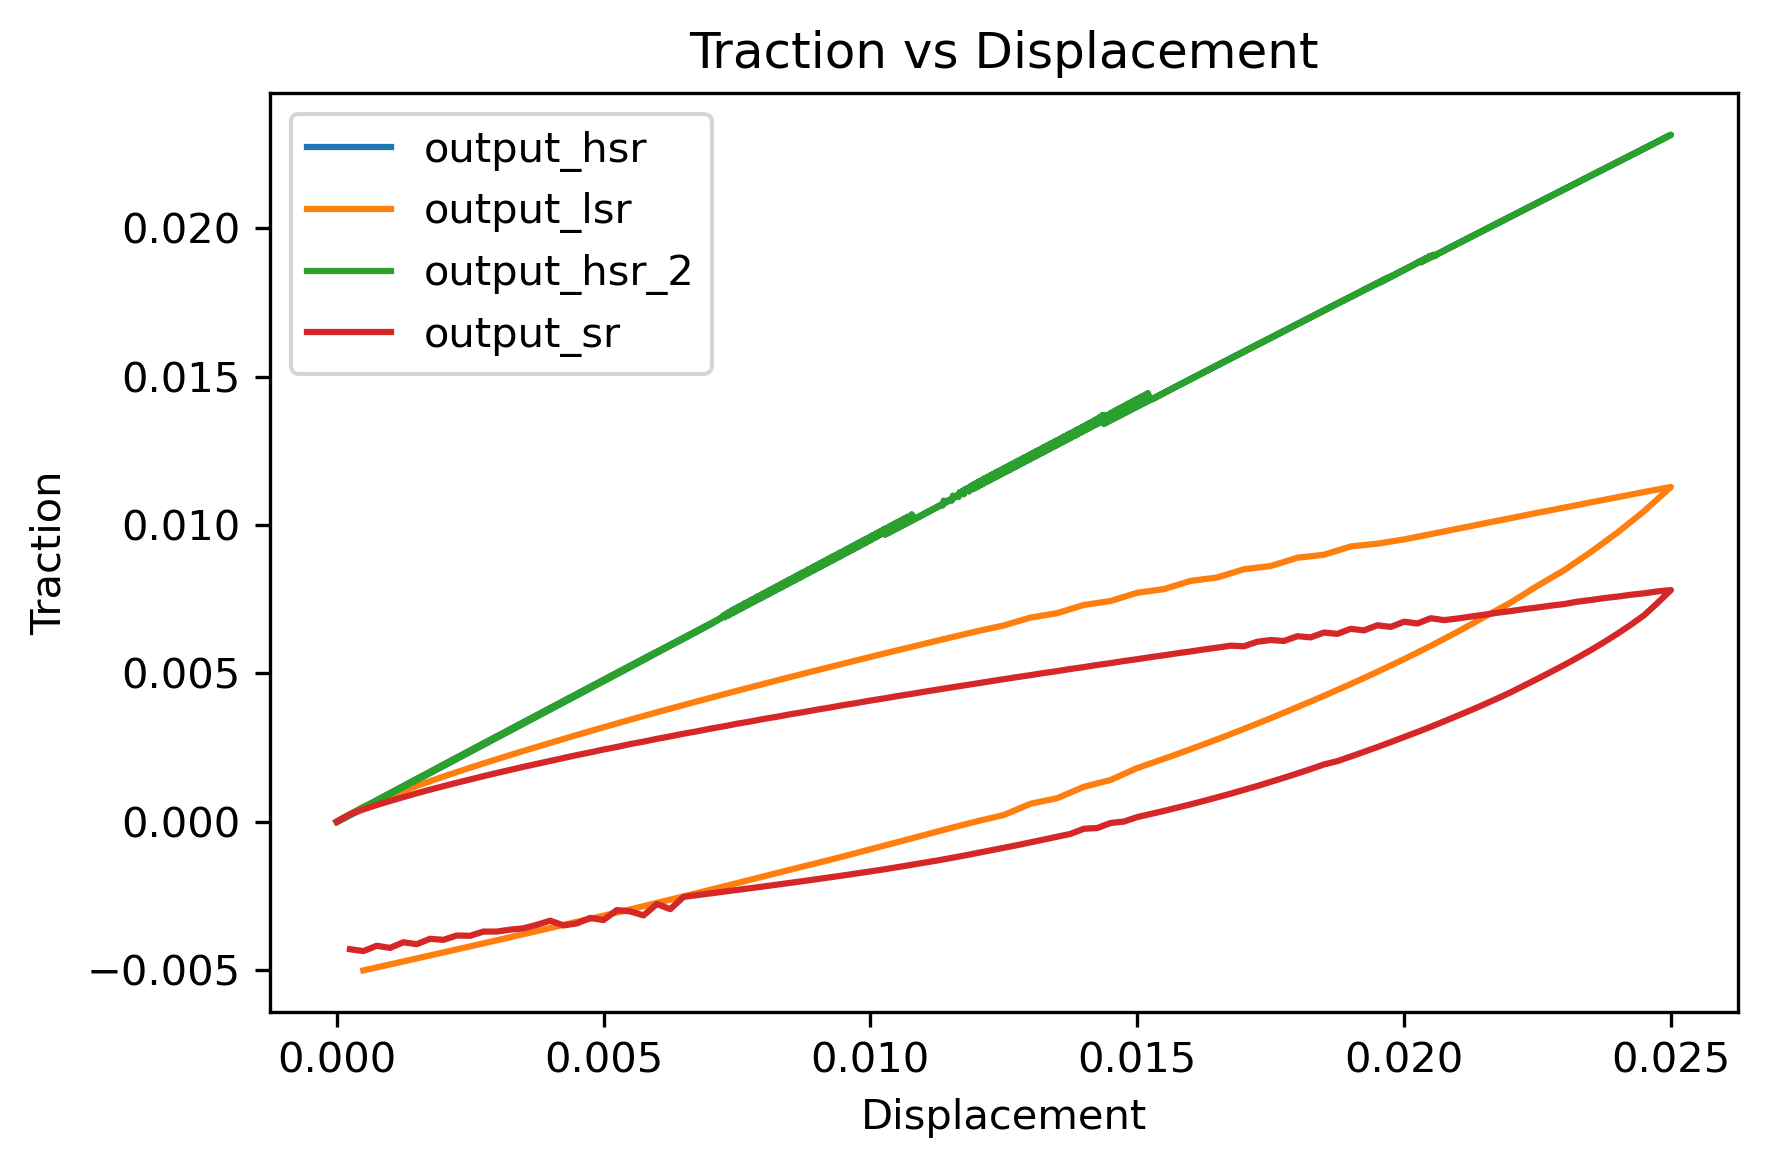
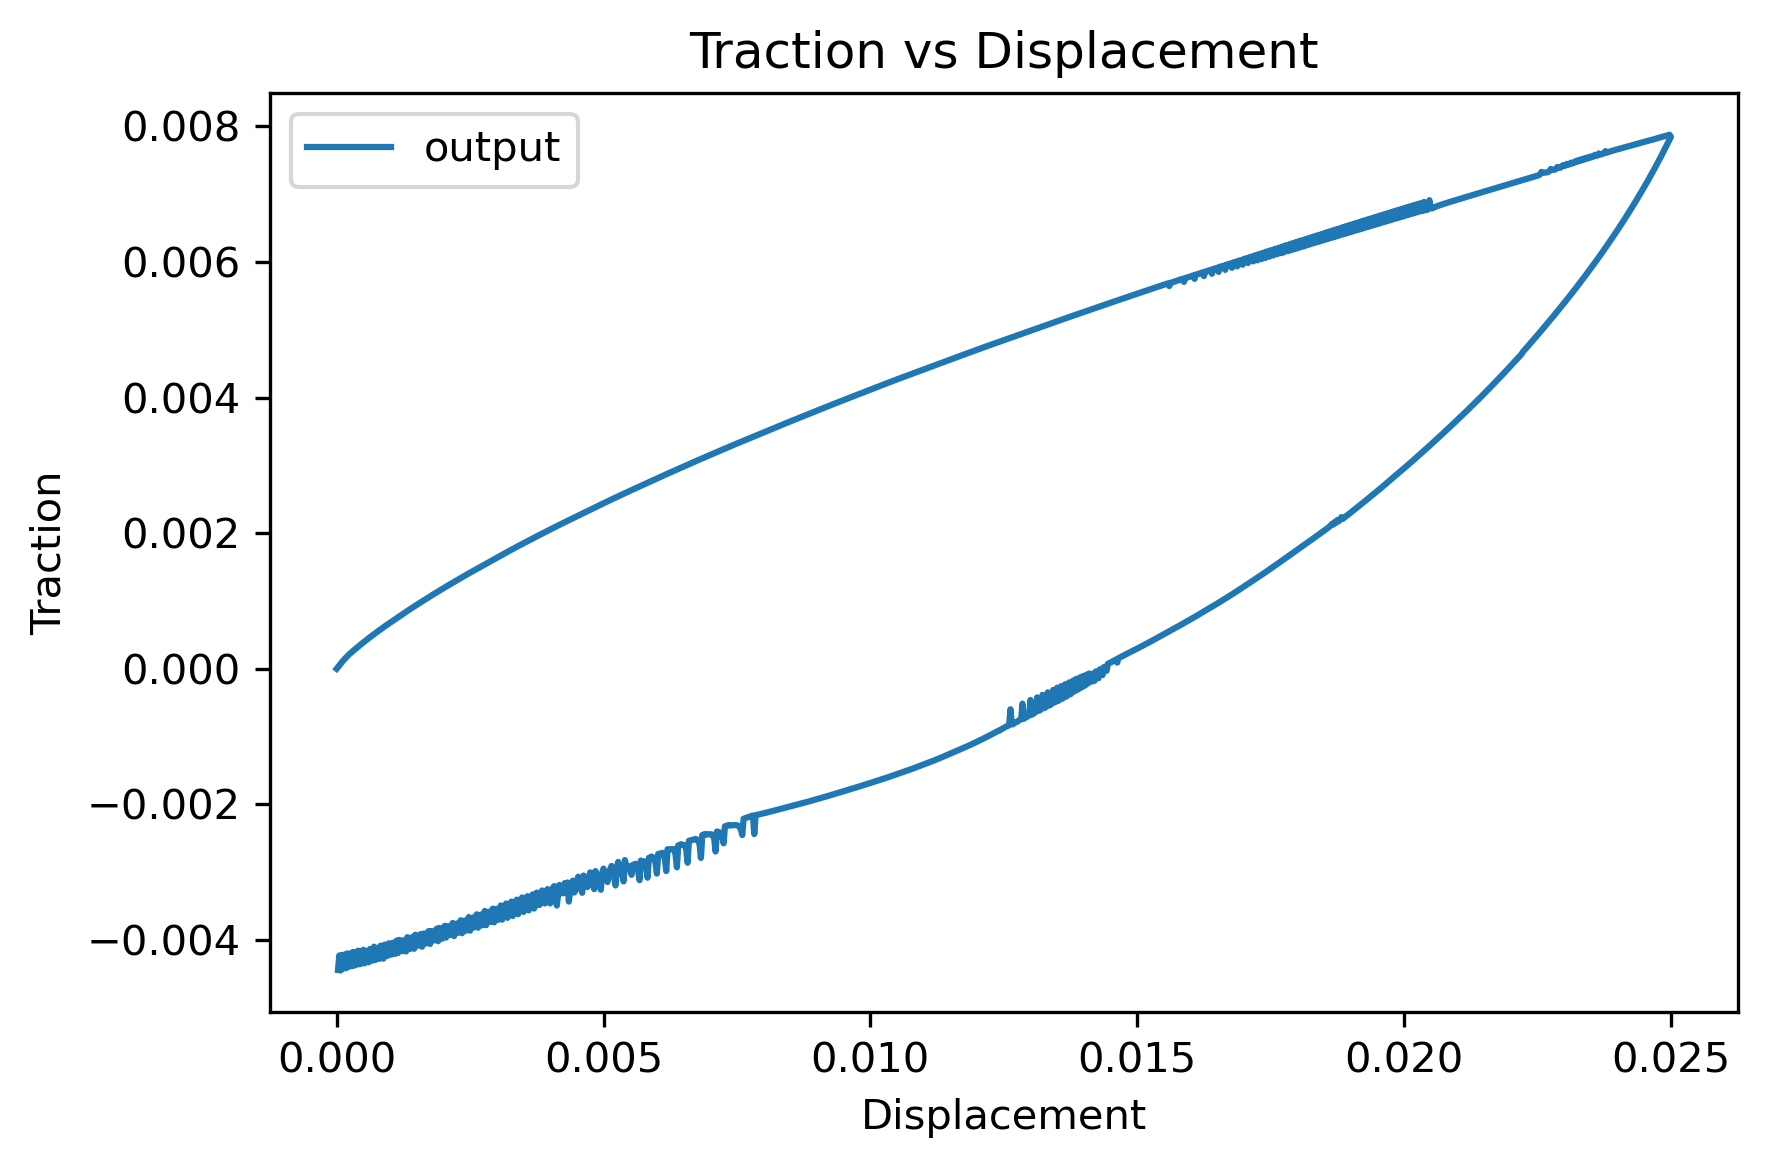
weird fluctuations

diff --git a/src/Model/Solid/Finite/CrystalPlastic.H b/src/Model/Solid/Finite/CrystalPlastic.H
@@ -96,6 +96,7 @@ virtual void Advance(Set::Scalar dt, Set::Matrix F, Set::Matrix P, Set::Scalar t
     {
         std::cout << "[DEBUG] === Newton iter " << it << " ===\n";
 
+        //Set::Matrix3d Lp = Set::Matrix3d::Zero();
         Set::Matrix3d Lp = Set::Matrix3d::Zero();
         for(int a = 0; a < 12; ++a) {
             Lp += (dgamma[a] / dt) * ss[a].first * ss[a].second.transpose();
@@ -110,7 +111,7 @@ virtual void Advance(Set::Scalar dt, Set::Matrix F, Set::Matrix P, Set::Scalar t
         std::cout << "  F:\n" << F << "\n";
         
         Set::Matrix3d Fe = Set::Matrix3d::Zero();
-        Fe = Set::expand(F) * Fp;
+        Fe = Set::expand(F)* Fpinv;
         std::cout << "  Fe:\n" << Fe << "\n";
 
         Set::Matrix3d P3 = Set::expand(P);